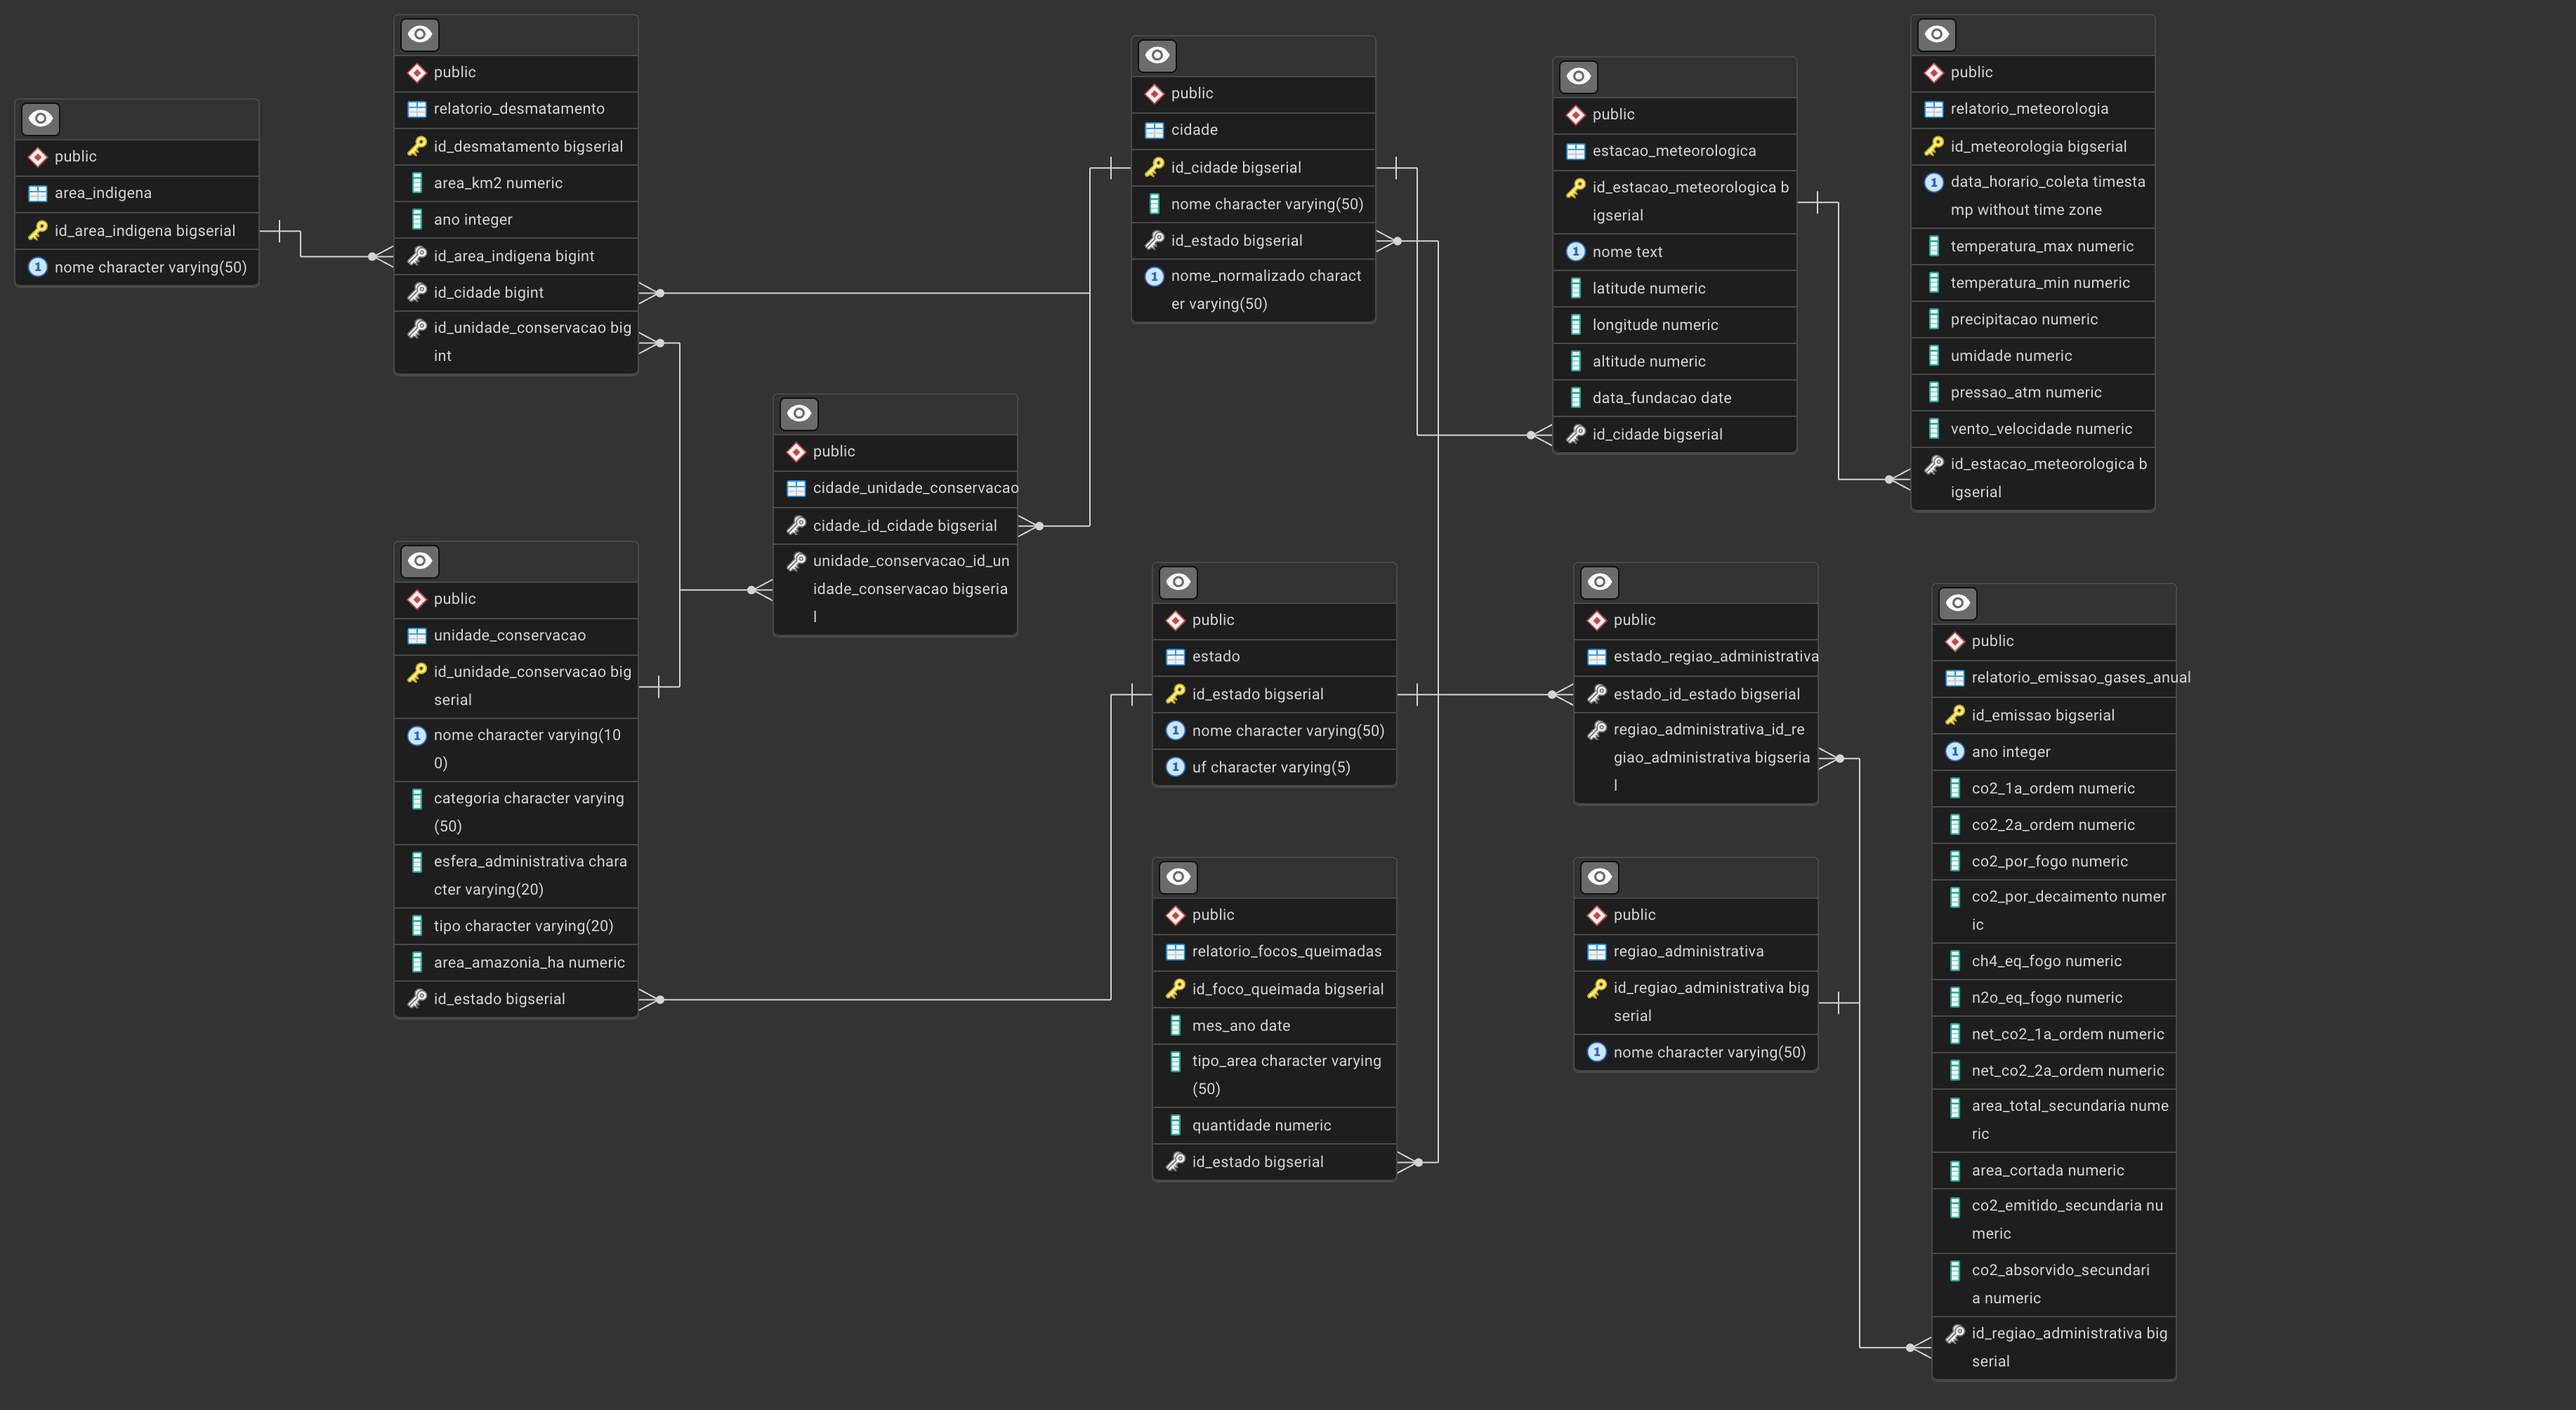
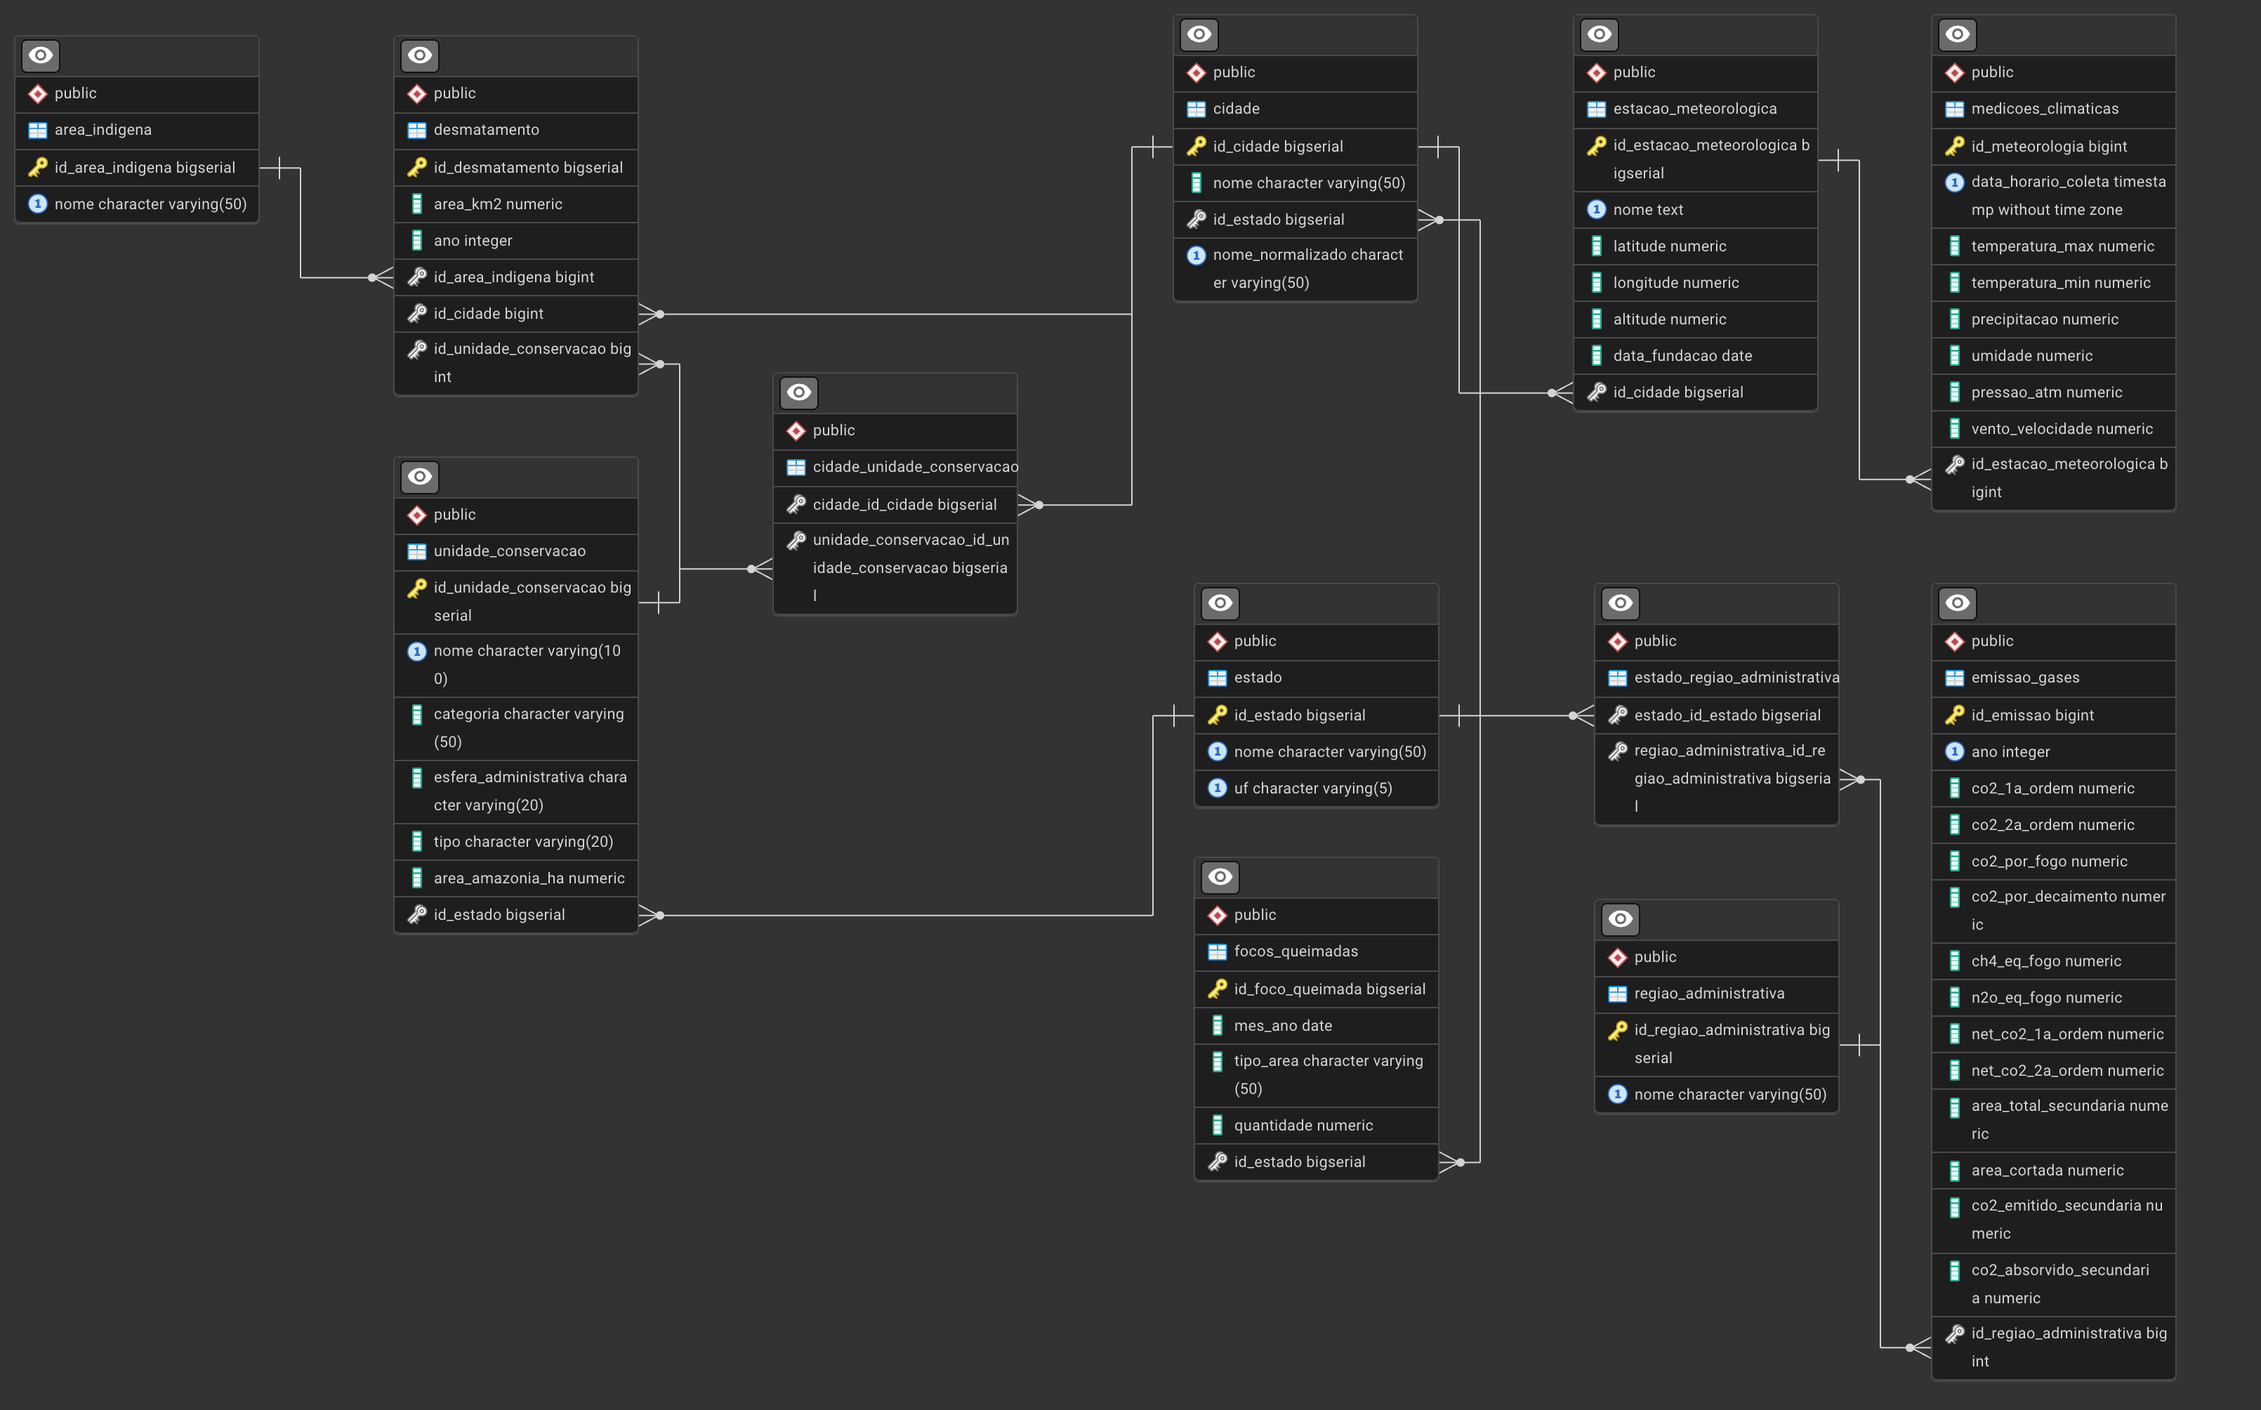
aplica correções

diff --git a/README.md b/README.md
@@ -53,7 +53,7 @@ Dataset disponibilizado pelo Ministério do Meio Ambiente e Mudança do Clima. C
 
 Dataset disponibilizado pelo INPE (Instituto Nacional de Pesquisas Espaciais) por meio da plataforma TerraBrasilis. Contém dados sobre focos de queimadas obtidos por satélites. Os dados são disponibilizados com referência ã todo território brasileiro, assim como, categorizados por bioma, sendo que, nesse projeto, está sendo utilizado o arquivo referente ao bioma Amazônia.
 
-### Meteorologia
+### Medições Climáticas
 
 - fonte: https://bdmep.inmet.gov.br
 - arquivo local: todos os arquivos nas pastas /clima2000 a /clima2024 em /datasets
@@ -108,12 +108,12 @@ Dataset disponibilizado pelo INPE (Instituto Nacional de Pesquisas Espaciais). C
 
 - **Estação Meteorológica**: Instalação com instrumentos para registrar dados climáticos automaticamente. Usada como base geográfica para associar dados de meteorologia. Inclui todas as estações meteorológicas presentes nos relatórios de meteorologia disponibilizados pelo INMET (Instituto Nacional de Meteorologia) de 2000 a 2024. Imutável após registro do relatório.
 
-- **Relatorio de Desmatamento**: Registro anual da área desmatada em determinada cidade/unidade de conservação/área indígena. Usada para avaliar desmatamento e impacto ambiental. Imutável após registro do relatório.
+- **Desmatamento**: Registro anual da área desmatada em determinada cidade/unidade de conservação/área indígena. Usada para avaliar desmatamento e impacto ambiental. Imutável após registro do relatório.
 
   - Atributos:
     - _area_km2_: área desmatada em quilômetros quadrados
 
-- **Relatorio de Meteorologia**: Registro de dados climáticos diários, hora em hora, por estação meteorológica. Usada para avaliar dados meteorológicos e impacto ambiental. Imutável após registro do relatório.
+- **Medicoes Climaticas**: Registro de dados climáticos diários, hora em hora, por estação meteorológica. Usada para avaliar dados meteorológicos e impacto ambiental. Imutável após registro do relatório.
 
   - Atributos:
     - _temperatura_max_: temperatura máxima registrada na hora anterior, em graus Celsius
@@ -122,7 +122,7 @@ Dataset disponibilizado pelo INPE (Instituto Nacional de Pesquisas Espaciais). C
     - _umidade_: umidade relativa do ar na hora de medição, em porcentagem
     - _velocidade_vento_: velocidade do ar na hora de medição, em metros por segundo
 
-- **Relatorio de Emissão de Gases**: Consolidação anual das emissões e absorções de gases de efeito estufa por região. Usada para avaliar emissão e impacto ambiental. Imutável após registro do relatório.
+- **Emissão de Gases**: Consolidação anual das emissões e absorções de gases de efeito estufa por região. Usada para avaliar emissão e impacto ambiental. Imutável após registro do relatório.
 
   - Atributos:
     - _co2_1a_ordem_: emissão de CO2 de 1 ordem. A medida de 1a ordem supõe de modo simplificado que 100% das emissões ocorram no momento da mudança de uso/cobertura
@@ -134,13 +134,13 @@ Dataset disponibilizado pelo INPE (Instituto Nacional de Pesquisas Espaciais). C
 
 [^1]: Quantidade expressa em termos do impacto que teria se fosse CO2
 
-- **Relatorio de Focos de Queimadas**: Registros de pontos de calor detectados por satélite, indicando possível queimada. Usada para avaliar focos de queimada e impacto ambiental. Imutável após registro do relatório.
+- **Focos de Queimadas**: Registros de pontos de calor detectados por satélite, indicando possível queimada. Usada para avaliar focos de queimada e impacto ambiental. Imutável após registro do relatório.
 
 ### Relacionamentos
 
-- **Relatório de Desmatamento _ocorreu em_ Cidade/Unidade de Conservação/Área Indígena**: representa o local em que aconteceu o desmatamento referenciado. O desmatamento pode ocorrer em Cidade, Unidade de Conservação e Área Indígena, mas um mesmo relatório pode ter relação apenas com uma dessas entidades por vez. É definido no momento de cadastro do relatório e não pode ser alterado.
+- **Desmatamento _ocorreu em_ Cidade/Unidade de Conservação/Área Indígena**: representa o local em que aconteceu o desmatamento referenciado. O desmatamento pode ocorrer em Cidade, Unidade de Conservação e Área Indígena, mas um mesmo relatório pode ter relação apenas com uma dessas entidades por vez. É definido no momento de cadastro do relatório e não pode ser alterado.
 
-- **Relatório de Meteorologia _pertence a_ Estação Meteorológica**: representa a estação que gerou os dados do relatório de meteorologia. Definido no momento de cadastro do relatório e não pode ser alterado.
+- **Medições Climáticas _pertence a_ Estação Meteorológica**: representa a estação que gerou os dados do relatório de meteorologia. Definido no momento de cadastro do relatório e não pode ser alterado.
 
 - **Estação Meteorológica _pertence a_ Cidade**: representa a cidade em que a estação meteorológica está localizada. Definido no momento de cadastro da estação meteorológica e não pode ser alterado.
 
@@ -150,11 +150,11 @@ Dataset disponibilizado pelo INPE (Instituto Nacional de Pesquisas Espaciais). C
 
 - **Unidade de Conservação _abrange_ Cidades**: representa as cidades em que o território da unidade de conservação está presente. Definido no momento do cadastro da unidade de conservação e pode ser alterado caso ocorram mudanças no território da área de conservação.
 
-- **Relatório de Focos de Queimadas _pertence a_ Estado**: representa o Estado em que aconteceram os registro do foco de queimadas referenciado. Definido no momento do cadastro do relatório e não pode ser alterado.
+- **Focos de Queimadas _pertence a_ Estado**: representa o Estado em que aconteceram os registro do foco de queimadas referenciado. Definido no momento do cadastro do relatório e não pode ser alterado.
 
 - **Estado _pertence a_ Região Administrativa**: representa a região administrativa à qual o Estado pertence. Um Estado pode pertencer a diferentes regiões administrativas. Definido no momento do cadastro do Estado e não pode ser alterado.
 
-- **Relatório de Emissão de Gases _pertence a_ Região Administrativa**: representa a região administrativa à qual os dados de emissão de gases se referem. Definido no momento do cadastro do relatório e não pode ser alterado.
+- **Emissão de Gases _pertence a_ Região Administrativa**: representa a região administrativa à qual os dados de emissão de gases se referem. Definido no momento do cadastro do relatório e não pode ser alterado.
 
 ## Scripts de Preenchimento do Banco de Dados
 
@@ -193,7 +193,7 @@ Vale notar que nem todos os campos dos datasets originais foram utilizados, e al
 
 ### insert_meteorologia
 
-- dataset: [Meteorologia](#meteorologia)
+- dataset: [Meteorologia](#medições-climáticas)
 - Insere estações meteorológicas
 - Insere relatórios de meteorologia
 - Relaciona cidade com estações meteorológicas
